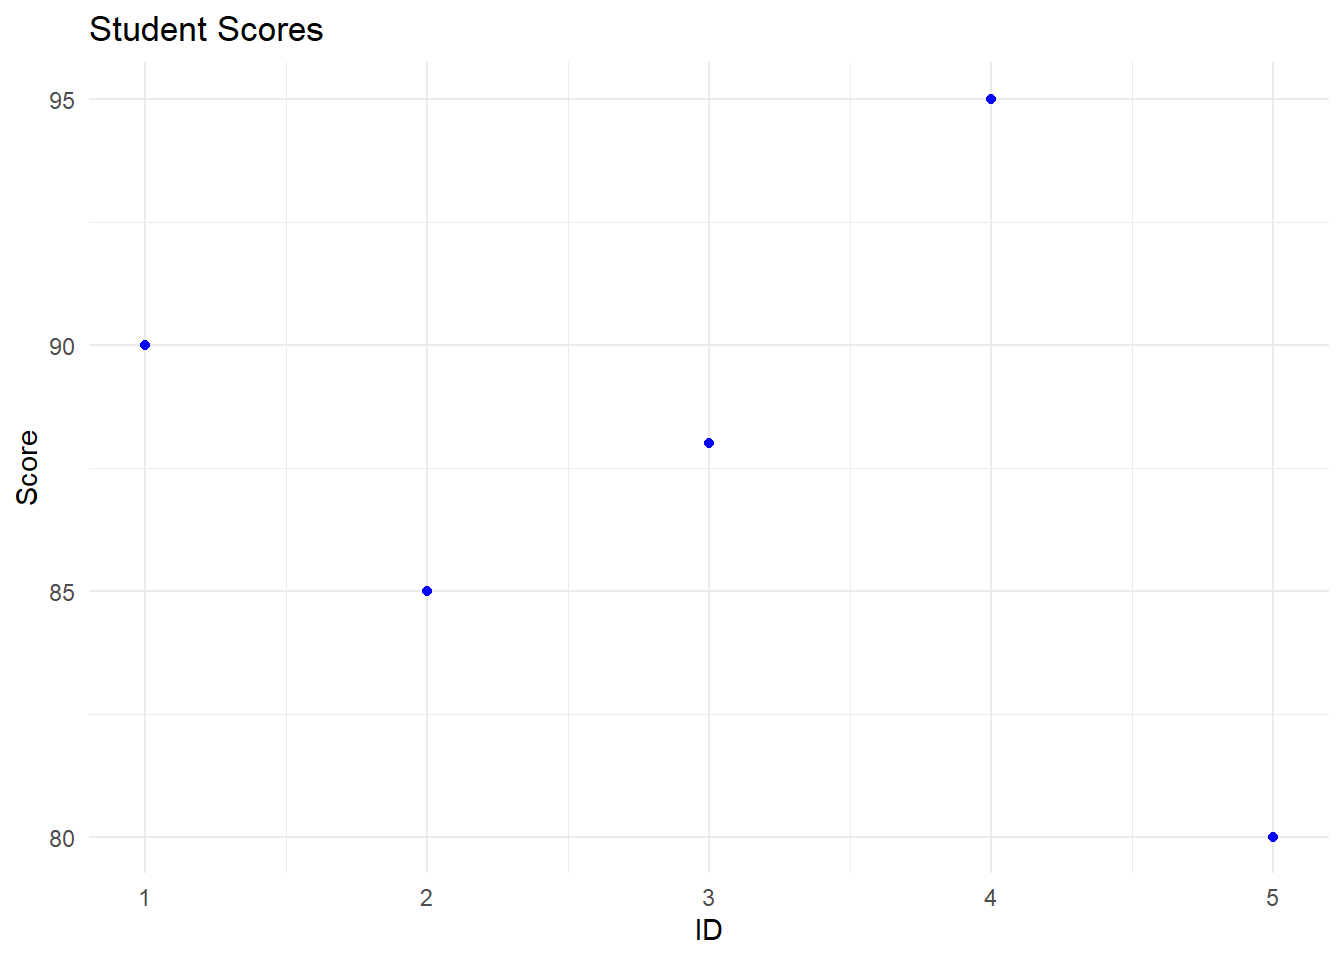
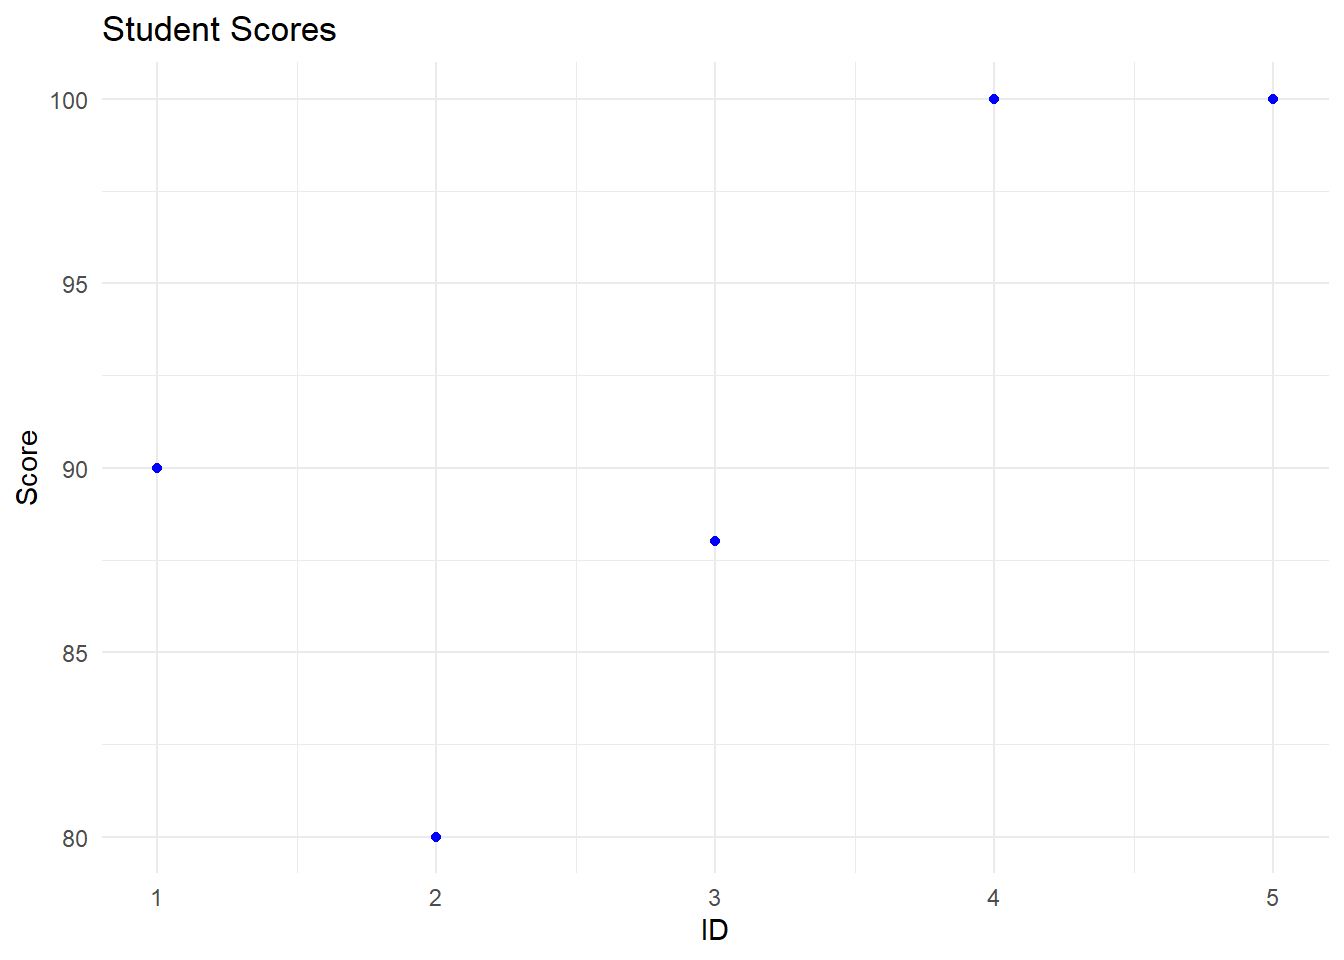
:pencil: fixing complains

diff --git a/docs/content/01-basics.html b/docs/content/01-basics.html
@@ -403,17 +403,17 @@ Levels: High Low Medium</code></pre>
 <div class="sourceCode cell-code" id="cb21"><pre class="sourceCode r code-with-copy"><code class="sourceCode r"><span id="cb21-1"><a href="#cb21-1" aria-hidden="true" tabindex="-1"></a>my_data_frame <span class="ot">&lt;-</span> <span class="fu">data.frame</span>(</span>
 <span id="cb21-2"><a href="#cb21-2" aria-hidden="true" tabindex="-1"></a>  <span class="at">id =</span> <span class="dv">1</span><span class="sc">:</span><span class="dv">5</span>,</span>
 <span id="cb21-3"><a href="#cb21-3" aria-hidden="true" tabindex="-1"></a>  <span class="at">name =</span> <span class="fu">c</span>(<span class="st">"Emma"</span>, <span class="st">"Rony"</span>, <span class="st">"Jostin"</span>, <span class="st">"David"</span>, <span class="st">"Alex"</span>),</span>
-<span id="cb21-4"><a href="#cb21-4" aria-hidden="true" tabindex="-1"></a>  <span class="at">score =</span> <span class="fu">c</span>(<span class="dv">90</span>, <span class="dv">85</span>, <span class="dv">88</span>, <span class="dv">95</span>, <span class="dv">80</span>)</span>
+<span id="cb21-4"><a href="#cb21-4" aria-hidden="true" tabindex="-1"></a>  <span class="at">score =</span> <span class="fu">c</span>(<span class="dv">90</span>, <span class="dv">80</span>, <span class="dv">88</span>, <span class="dv">100</span>, <span class="dv">100</span>)</span>
 <span id="cb21-5"><a href="#cb21-5" aria-hidden="true" tabindex="-1"></a>)</span>
 <span id="cb21-6"><a href="#cb21-6" aria-hidden="true" tabindex="-1"></a></span>
 <span id="cb21-7"><a href="#cb21-7" aria-hidden="true" tabindex="-1"></a>my_data_frame</span></code><button title="Copy to Clipboard" class="code-copy-button"><i class="bi"></i></button></pre></div>
 <div class="cell-output cell-output-stdout">
 <pre><code>  id   name score
 1  1   Emma    90
-2  2   Rony    85
+2  2   Rony    80
 3  3 Jostin    88
-4  4  David    95
-5  5   Alex    80</code></pre>
+4  4  David   100
+5  5   Alex   100</code></pre>
 </div>
 </div>
 </section>
@@ -494,10 +494,10 @@ Levels: High Low Medium</code></pre>
 <div class="cell-output cell-output-stdout">
 <pre><code>  id   name score passed
 1  1   Emma    90   TRUE
-2  2   Rony    85   TRUE
+2  2   Rony    80  FALSE
 3  3 Jostin    88   TRUE
-4  4  David    95   TRUE
-5  5   Alex    80  FALSE</code></pre>
+4  4  David   100   TRUE
+5  5   Alex   100   TRUE</code></pre>
 </div>
 </div>
 <p>This will add a new column passed to my_data_frame, where each row will have <code>TRUE</code> if the student’s score is 85 or higher, and <code>FALSE</code> otherwise.</p>
@@ -512,11 +512,11 @@ Levels: High Low Medium</code></pre>
 <span id="cb31-5"><a href="#cb31-5" aria-hidden="true" tabindex="-1"></a>my_data_frame</span></code><button title="Copy to Clipboard" class="code-copy-button"><i class="bi"></i></button></pre></div>
 <div class="cell-output cell-output-stdout">
 <pre><code>  id   name score passed score_standardized
-1  1   Emma    90   TRUE          0.4289820
-2  2   Rony    85   TRUE         -0.4647305
-3  3 Jostin    88   TRUE          0.0714970
-4  4  David    95   TRUE          1.3226945
-5  5   Alex    80  FALSE         -1.3584430</code></pre>
+1  1   Emma    90   TRUE         -0.1875229
+2  2   Rony    80  FALSE         -1.3595410
+3  3 Jostin    88   TRUE         -0.4219265
+4  4  David   100   TRUE          0.9844952
+5  5   Alex   100   TRUE          0.9844952</code></pre>
 </div>
 </div>
 <p>This operation creates a new column <code>score_standardized</code> where each student’s score is standardized.</p>
@@ -539,11 +539,11 @@ Levels: High Low Medium</code></pre>
 <span id="cb33-12"><a href="#cb33-12" aria-hidden="true" tabindex="-1"></a>my_data_frame</span></code><button title="Copy to Clipboard" class="code-copy-button"><i class="bi"></i></button></pre></div>
 <div class="cell-output cell-output-stdout">
 <pre><code>  id   name score passed score_standardized grade
-1  1   Emma    90   TRUE          0.4289820     B
-2  2   Rony    85   TRUE         -0.4647305     C
-3  3 Jostin    88   TRUE          0.0714970     B
-4  4  David    95   TRUE          1.3226945     A
-5  5   Alex    80  FALSE         -1.3584430     C</code></pre>
+1  1   Emma    90   TRUE         -0.1875229     C
+2  2   Rony    80  FALSE         -1.3595410     C
+3  3 Jostin    88   TRUE         -0.4219265     C
+4  4  David   100   TRUE          0.9844952     B
+5  5   Alex   100   TRUE          0.9844952     B</code></pre>
 </div>
 </div>
 <p>In this example, <code>case_when()</code> is used to assign grades: “A” for standardized scores &gt;= 1, “B” for scores &gt;= 0 and &lt; 1, and “C” for scores &lt; 0. This illustrates how <code>mutate()</code> can be used to perform multiple transformations simultaneously, enhancing the readability and efficiency of your data manipulation code.</p>
@@ -563,7 +563,7 @@ Levels: High Low Medium</code></pre>
 <span id="cb35-4"><a href="#cb35-4" aria-hidden="true" tabindex="-1"></a>average_score</span></code><button title="Copy to Clipboard" class="code-copy-button"><i class="bi"></i></button></pre></div>
 <div class="cell-output cell-output-stdout">
 <pre><code>  mean_score
-1       87.6</code></pre>
+1       91.6</code></pre>
 </div>
 </div>
 <p>This code calculates the mean of the <code>score</code> column and stores the result in a new data frame called <code>average_score</code> with a single column <code>mean_score</code>.</p>
@@ -579,11 +579,11 @@ Levels: High Low Medium</code></pre>
 <span id="cb37-4"><a href="#cb37-4" aria-hidden="true" tabindex="-1"></a>my_data_frame</span></code><button title="Copy to Clipboard" class="code-copy-button"><i class="bi"></i></button></pre></div>
 <div class="cell-output cell-output-stdout">
 <pre><code>  id   name score passed score_standardized grade class
-1  1   Emma    90   TRUE          0.4289820     B     B
-2  2   Rony    85   TRUE         -0.4647305     C     A
-3  3 Jostin    88   TRUE          0.0714970     B     B
-4  4  David    95   TRUE          1.3226945     A     A
-5  5   Alex    80  FALSE         -1.3584430     C     B</code></pre>
+1  1   Emma    90   TRUE         -0.1875229     C     B
+2  2   Rony    80  FALSE         -1.3595410     C     A
+3  3 Jostin    88   TRUE         -0.4219265     C     B
+4  4  David   100   TRUE          0.9844952     B     A
+5  5   Alex   100   TRUE          0.9844952     B     B</code></pre>
 </div>
 </div>
 <p>This code adds a new column <code>class</code> to <code>my_data_frame</code>, where students with an even id are assigned to class “A” and students with an odd id are assigned to class “B”.</p>
@@ -598,8 +598,8 @@ Levels: High Low Medium</code></pre>
 <pre><code># A tibble: 2 × 2
   class mean_score
   &lt;chr&gt;      &lt;dbl&gt;
-1 A             90
-2 B             86</code></pre>
+1 A           90  
+2 B           92.7</code></pre>
 </div>
 </div>
 <p>This will calculate the mean score for each class separately.</p>
@@ -618,7 +618,7 @@ Levels: High Low Medium</code></pre>
 <span id="cb41-8"><a href="#cb41-8" aria-hidden="true" tabindex="-1"></a>summary_statistics</span></code><button title="Copy to Clipboard" class="code-copy-button"><i class="bi"></i></button></pre></div>
 <div class="cell-output cell-output-stdout">
 <pre><code>  mean_score median_score sd_score
-1       87.6           88  5.59464</code></pre>
+1       91.6           90 8.532292</code></pre>
 </div>
 </div>
 </section>
@@ -632,11 +632,11 @@ Levels: High Low Medium</code></pre>
 <span id="cb43-4"><a href="#cb43-4" aria-hidden="true" tabindex="-1"></a>my_data_frame_with_mean</span></code><button title="Copy to Clipboard" class="code-copy-button"><i class="bi"></i></button></pre></div>
 <div class="cell-output cell-output-stdout">
 <pre><code>  id   name score passed score_standardized grade class mean_score
-1  1   Emma    90   TRUE          0.4289820     B     B       87.6
-2  2   Rony    85   TRUE         -0.4647305     C     A       87.6
-3  3 Jostin    88   TRUE          0.0714970     B     B       87.6
-4  4  David    95   TRUE          1.3226945     A     A       87.6
-5  5   Alex    80  FALSE         -1.3584430     C     B       87.6</code></pre>
+1  1   Emma    90   TRUE         -0.1875229     C     B       91.6
+2  2   Rony    80  FALSE         -1.3595410     C     A       91.6
+3  3 Jostin    88   TRUE         -0.4219265     C     B       91.6
+4  4  David   100   TRUE          0.9844952     B     A       91.6
+5  5   Alex   100   TRUE          0.9844952     B     B       91.6</code></pre>
 </div>
 </div>
 </section>
